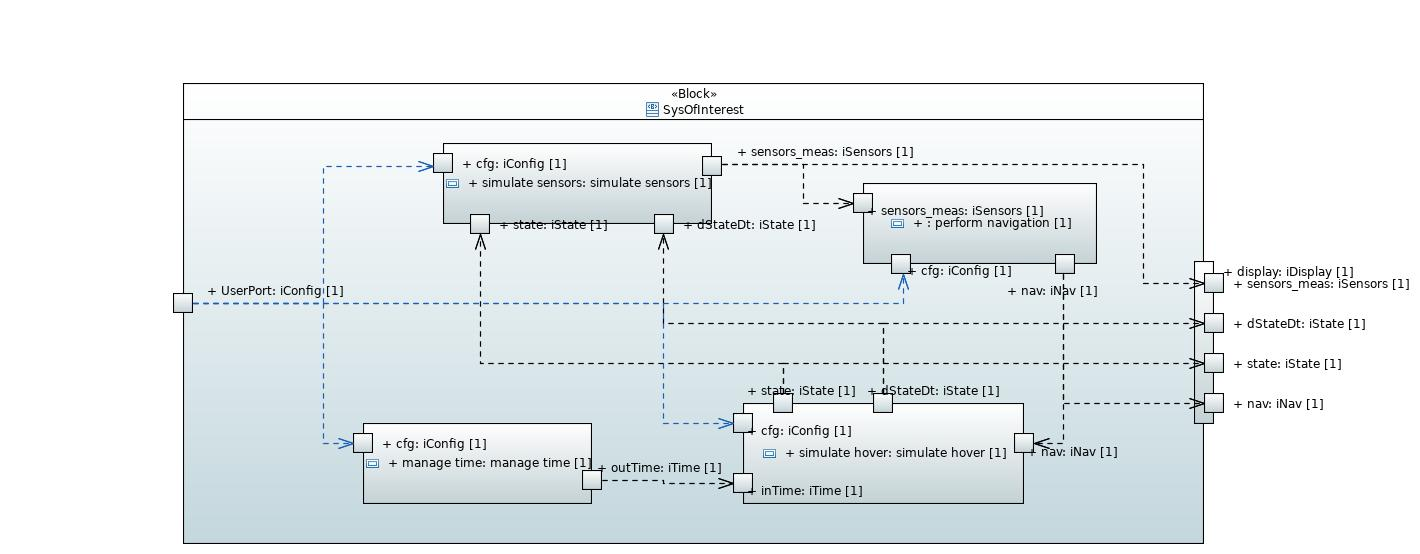
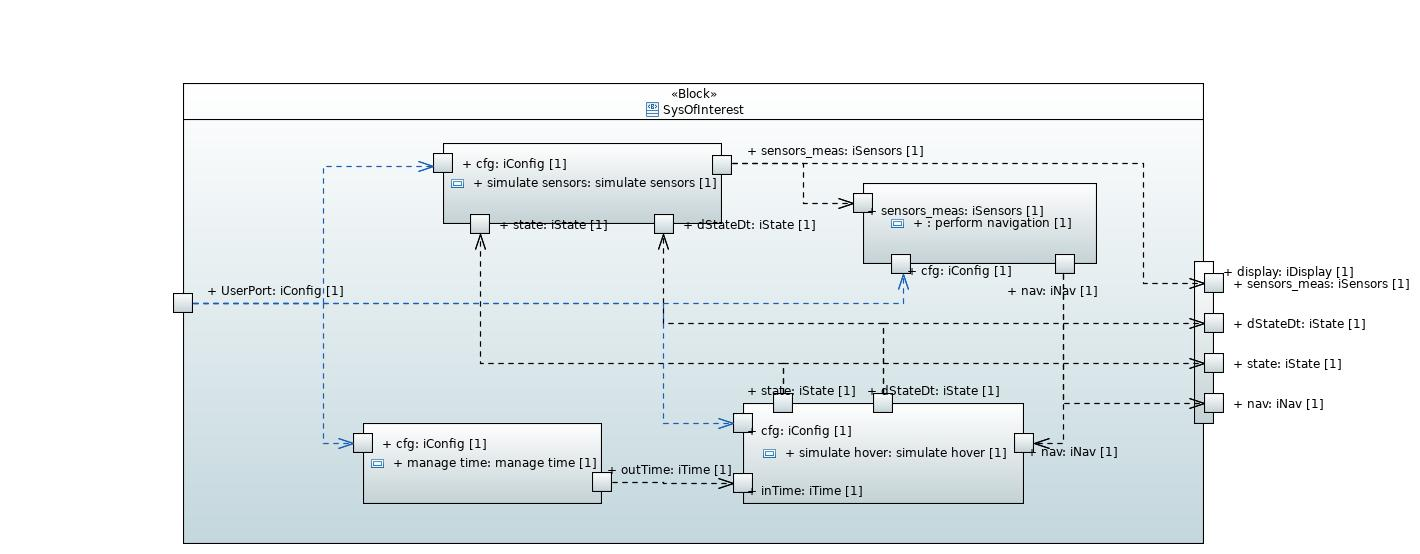
functional allocation added

Changed region(s): [[0.3099, 0.2455, 0.8056, 0.3989], [0.2479, 0.7671, 0.5268, 0.8899]]

diff --git a/pictures.mbse/README.md b/pictures.mbse/README.md
@@ -20,10 +20,11 @@ reviving the project also for python 3, populating the simulation with the
 complete GNC (guidance-navigation-control) and sensing, and enhancing the
 clarity at any interface level.
 
-# mbse
+# System Of Interest
 
-The next paragraphs and respective diagrams will provide the details about the new project, and what is
-expected to have achieved.
+The next paragraphs and respective diagrams will provide the details about the
+new project, and what is expected to have achieved. The System of Interest is
+modelled using the Model Based System Engineering (MBSE) paradigm.
 
 ## use case diagram
 
@@ -94,4 +95,21 @@ whatever is necessary for your (my) application.
 The output of this activity is designed to be the input of the navigation.
 
 ![Activity_simulate_sensors_simulate_sensors.JPG](Activity_simulate_sensors_simulate_sensors.JPG?raw=true "UseCase: simulate navigation")
+
+## Functional Allocation
+
+The SysML allows the allocation of <<Activity>> as any <<Block>>, by any
+<<Block>> and <<Activity>>. This enables the modeling of reuse, as a single
+<<Activity>> might be a <<Part Property>> of multiple elements of the model.
+
+The next diagram depicts the functional allocation of the UseCases to the
+System of Interest. In addition, it shows the allocation of a new <<Activity>>:
+"manage time". This activity is intended to manage the pace of the simulation,
+continuous and discrete, and handle time events, for instance a change of
+configuration programed to happen at a particular timeslot.
+
+![Functional Allocation](functional_allocation.JPG?raw=true "System of Interest: Functional Allocation")
+
+$$ \ggg teste $$
+teste $ \lll teste $ teste
 
